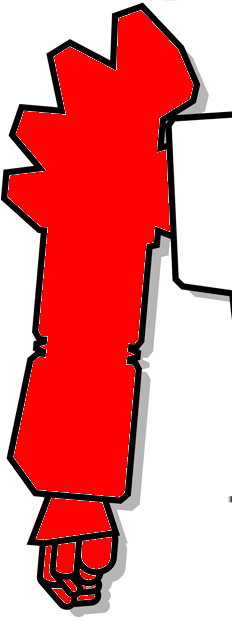
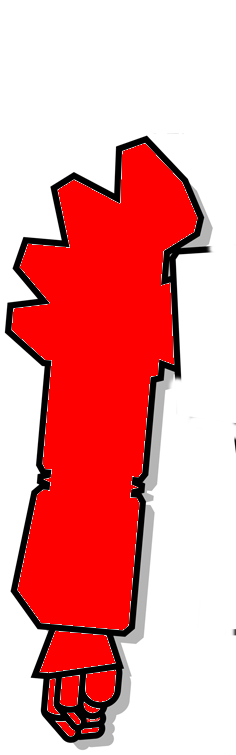
step 2 fixing red clickability

Changed region(s): [[0.0, 0.0, 1.0, 1.0], [0.9655, 0.7942, 1.0, 0.8553], [0.9957, 0.5498, 1.0, 0.6109]]

diff --git a/index.html b/index.html
@@ -9,8 +9,6 @@
     
     #fillIcon {
       position: absolute;
-      top: 133px;
-      left: 4px;
       z-index: 2;
       width: 100%;
       height: 0%;
@@ -46,10 +44,10 @@
     var speed = 10;
 $(".leftarm").on("click", function(e){
     e.preventDefault();
-    var fill = 0;
+    var fill = 133;
     var percentage = 0;
     var percentage = parseInt(prompt("Please enter percentage"), 10);
-    var fillpx = 622 * percentage / 100;
+    var fillpx = 622 * percentage / 100 + 133;
     if (percentage > 0) {
       var icon = setInterval(function() {
         fill += 1;
@@ -63,10 +61,10 @@ $(".leftarm").on("click", function(e){
 
 $(".leftarmred").on("click", function(e){
     e.preventDefault();
-    var fill = 0;
+    var fill = 133;
     var percentage = 0;
     var percentage = parseInt(prompt("Please enter percentage"), 10);
-    var fillpx = 622 * percentage / 100;
+    var fillpx = 622 * percentage / 100 + 133;
     if (percentage > 0) {
       var icon = setInterval(function() {
         fill += 1;
